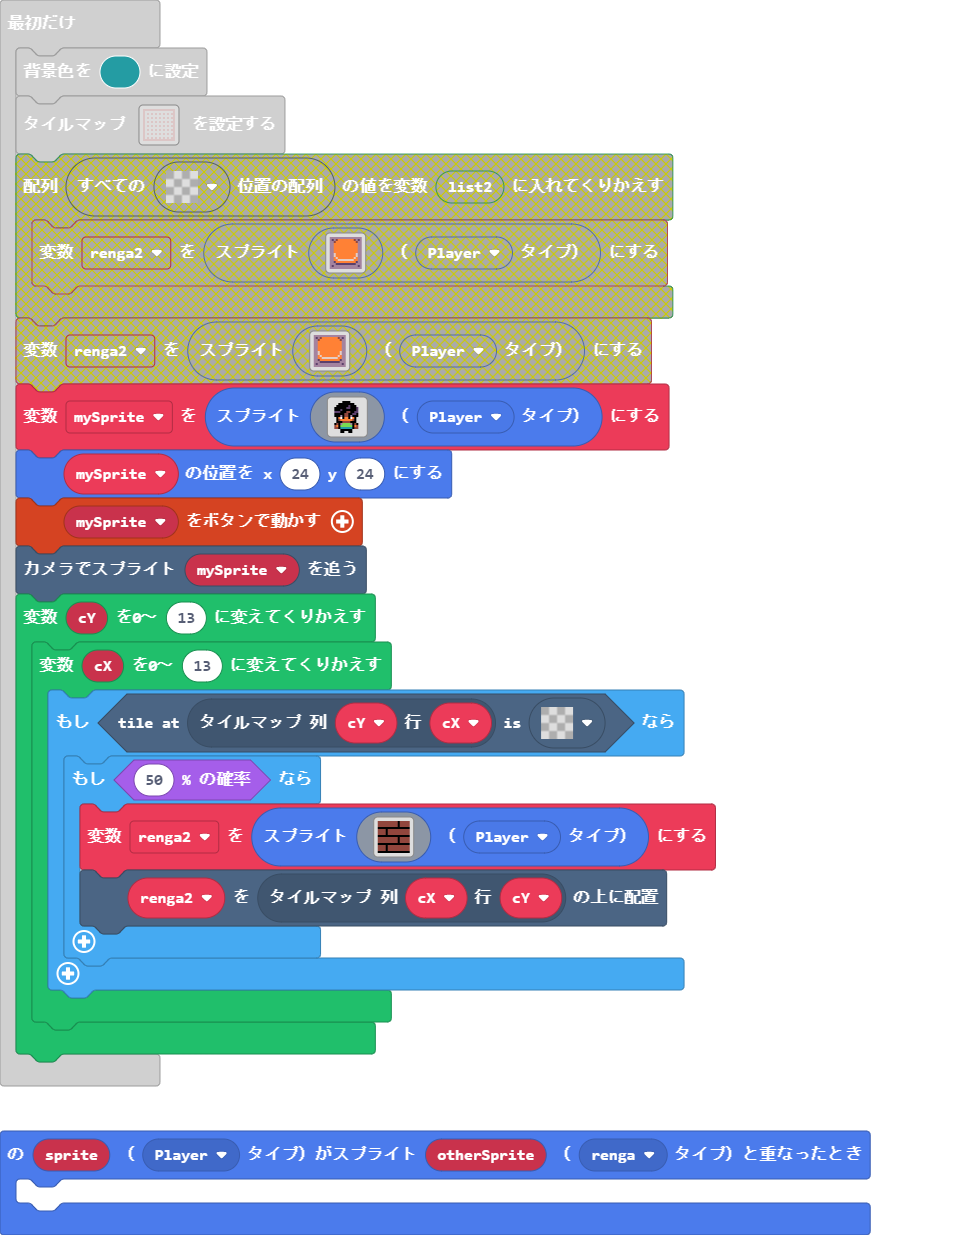
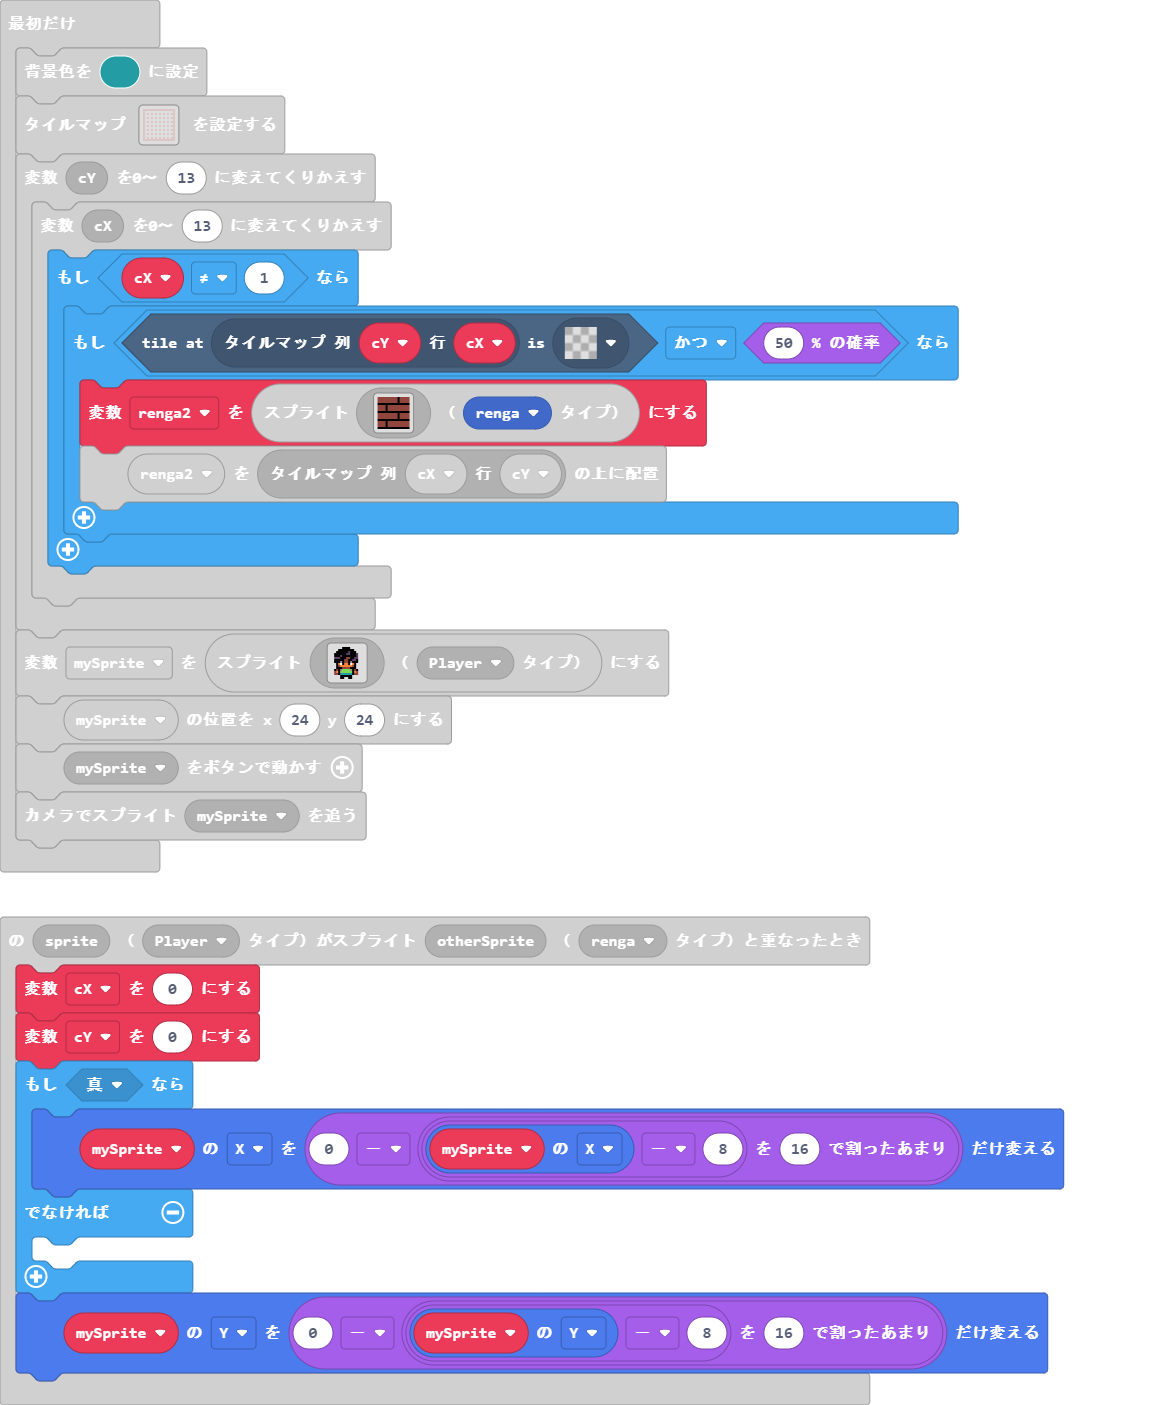
更新 main.blocks, main.ts

diff --git a/main.ts b/main.ts
@@ -82,7 +82,14 @@ controller.up.onEvent(ControllerButtonEvent.Pressed, function () {
         `)
 })
 sprites.onOverlap(SpriteKind.Player, SpriteKind.renga, function (sprite, otherSprite) {
-	
+    cX = 0
+    cY = 0
+    if (true) {
+        mySprite.x += 0 - (mySprite.x - 8) % 16
+    } else {
+    	
+    }
+    mySprite.y += 0 - (mySprite.y - 8) % 16
 })
 controller.A.onEvent(ControllerButtonEvent.Pressed, function () {
     mySprite2 = sprites.create(img`
@@ -108,14 +115,16 @@ controller.A.onEvent(ControllerButtonEvent.Pressed, function () {
     mySprite2.destroy(effects.fire, 500)
 })
 let mySprite2: Sprite = null
+let cY = 0
+let cX = 0
 let mySprite: Sprite = null
 let renga2: Sprite = null
 scene.setBackgroundColor(6)
 tiles.setTilemap(tilemap`レベル1`)
 for (let cY = 0; cY <= 13; cY++) {
     for (let cX = 0; cX <= 13; cX++) {
-        if (tiles.tileAtLocationEquals(tiles.getTileLocation(cY, cX), assets.tile`transparency16`)) {
-            if (Math.percentChance(50)) {
+        if (cX != 1) {
+            if (tiles.tileAtLocationEquals(tiles.getTileLocation(cY, cX), assets.tile`transparency16`) && Math.percentChance(50)) {
                 renga2 = sprites.create(img`
                     e e e e e e e e e e f e e e e e 
                     e e e e e e e e e e f e e e e e 
@@ -133,7 +142,7 @@ for (let cY = 0; cY <= 13; cY++) {
                     e e e e f e e e e e e e e e e e 
                     e e e e f e e e e e e e e e e e 
                     f f f f f f f f f f f f f f f f 
-                    `, SpriteKind.Player)
+                    `, SpriteKind.renga)
                 tiles.placeOnTile(renga2, tiles.getTileLocation(cX, cY))
             }
         }
